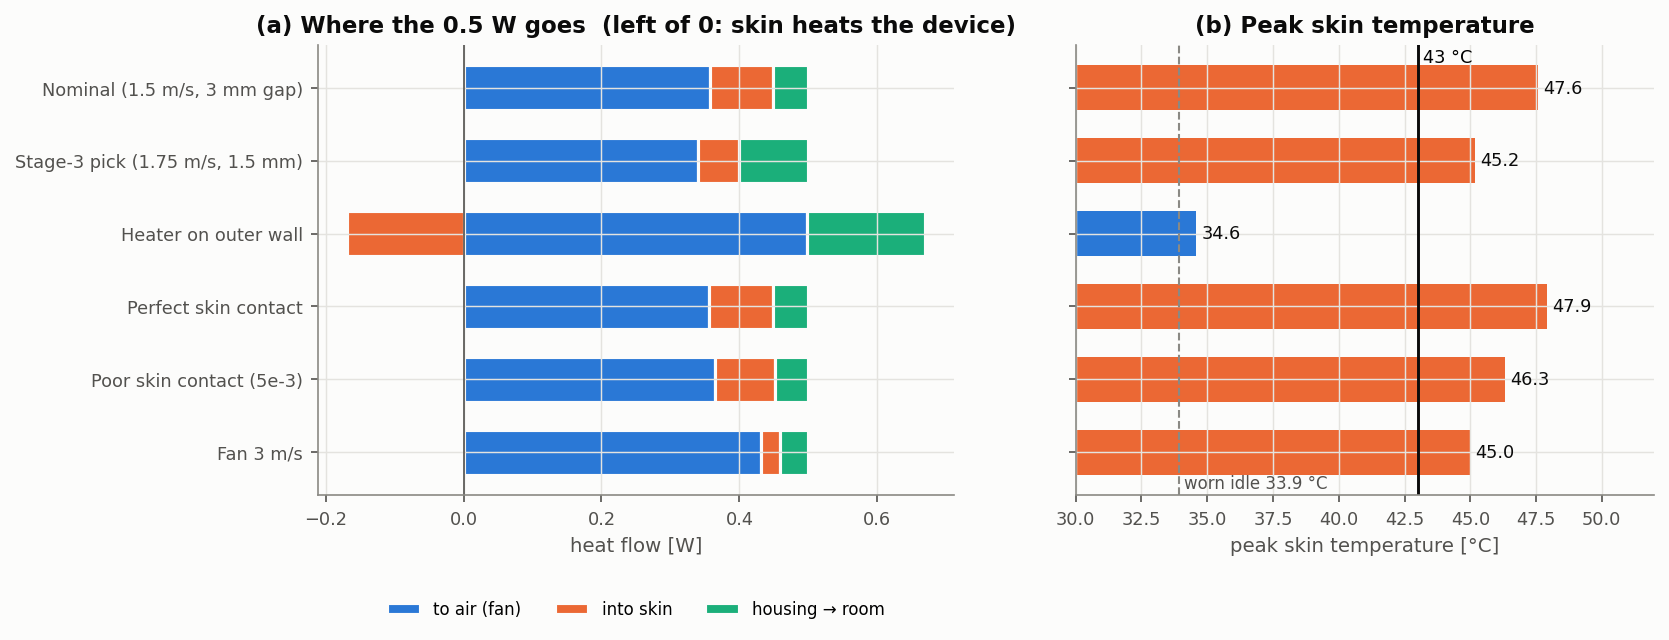
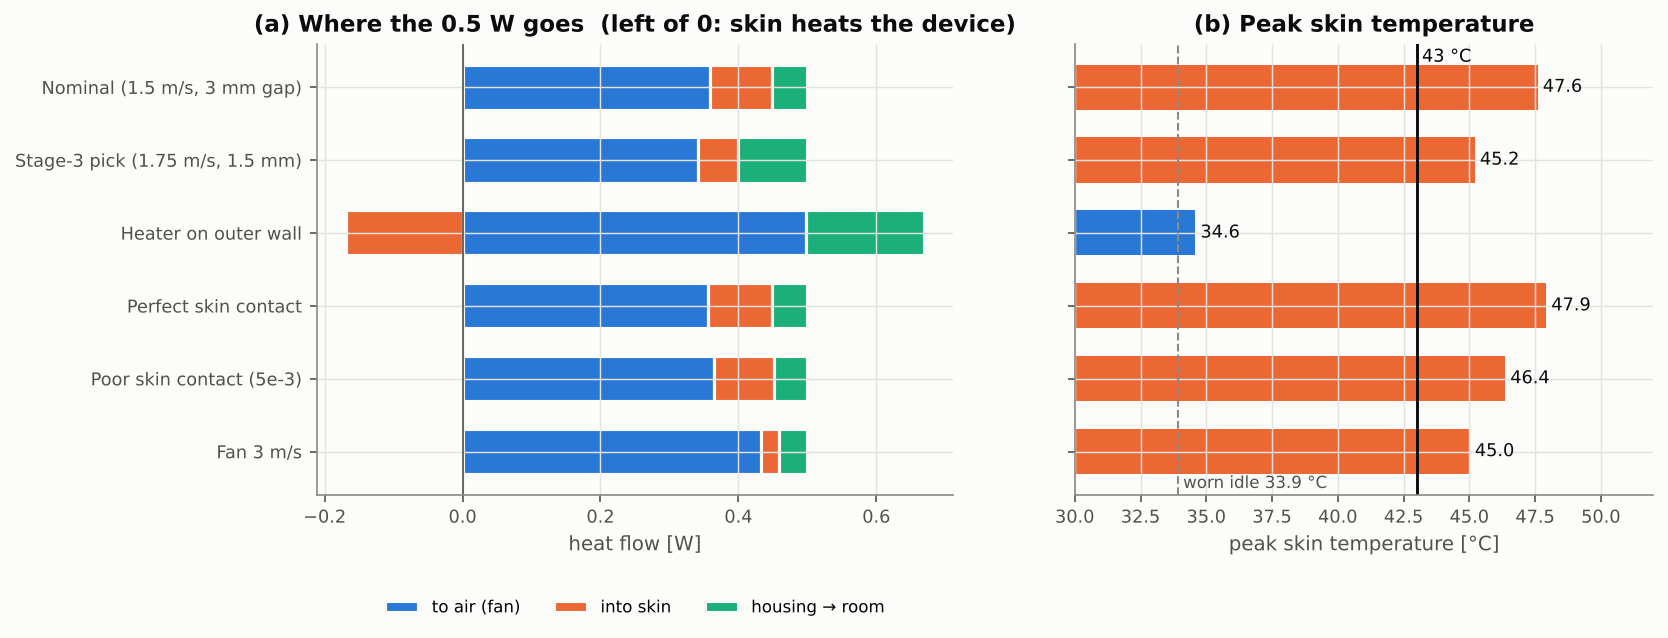
Mesh the housing-skin contact resistance instead of using BC thin layers
The coupled BC's thicknessLayers/kappaLayers option was reworked after
OpenFOAM v1912. On v2412 the 1D device column was off by 8.79 K
(R''=5e-3, the CI failure) and 4.92 K at the nominal R''=1e-3.

The contact resistance is now a 0.05 mm solid region carved from the
skin side of the housing, with k = d / (R'' + d/k_housing). The 1D
columns match the semi-analytic solution to 0.3 mK on both v1912 and
v2412.

Phase 2 and 4 re-run on v1912: Phase 2 values move by <= 0.15 K;
Phase 4 screening, optimised designs (0.59 / 0.94 / 1.15 W) and
binding limits are unchanged.

diff --git a/coolchan/device3d.py b/coolchan/device3d.py
@@ -10,7 +10,11 @@ Assembly (half-width, symmetry plane at z = 0; x streamwise, y outward from skin
        |                                                       core at 37 C (y = -depth)
 
 * Heater: aluminium block (battery/SoC + spreader) on the skin-side housing wall.
-* Housing <-> epidermis: thermal contact resistance R'' (thin layer in the coupled BC).
+* Housing <-> epidermis: thermal contact resistance R''. It is meshed as a thin solid
+  region ("contact", CONTACT_MM thick) carved from the skin side of the housing wall, with
+  a conductivity that gives exactly R'' plus the housing it replaces (see contact_kappa).
+  A meshed layer behaves the same in every OpenFOAM release; the coupled BC's
+  thicknessLayers/kappaLayers option does not (it was reworked after v1912).
 * Outer housing and exposed skin: natural convection h + grey-body radiation to ambient.
 * Tissue: 4 layers, Pennes source  w*rho_b*c_b*(T_a - T) + q_m  in perfused layers.
 
@@ -47,6 +51,13 @@ TISSUE = [
     ("epidermis", 0.4, 0.24, 1200.0, 3590.0, 0.0, 0.0),
 ]
 HOUSING = dict(k=0.20, rho=1050.0, cp=2100.0)        # polycarbonate-type plastic
+CONTACT_MM = 0.05     # thickness of the meshed housing-skin contact layer
+
+
+def contact_kappa(R_contact, t_mm=CONTACT_MM, k_host=HOUSING["k"]):
+    """Conductivity of the contact layer: its t_mm of housing plus R'' in series."""
+    d = t_mm * 1e-3
+    return d / (R_contact + d / k_host)
 
 
 @dataclass
@@ -132,6 +143,8 @@ class DeviceParams:
                 return tissue_names[j]
             if not (0 < xc < L and zc < self.Wc_mm / 2 + t):
                 return None
+            if yc < CONTACT_MM:
+                return "contact"            # skin-side face of the housing, carries R''
             if yc < t or yc > t + H or zc > self.Wc_mm / 2:
                 return "housing"
             kind = next(kd for lo, hi, kd, _ in segs if lo < yc < hi)
@@ -151,7 +164,7 @@ class DeviceParams:
                     return "inlet", "patch"
                 if d == "+x":
                     return "outlet", "patch"
-            if zn in ("housing", "heater"):     # heater: only the spreader ends at the vents
+            if zn in ("housing", "heater", "contact"):  # heater: only the spreader ends at the vents
                 return "housingOuter", "wall"
             if zn in tissue_names:
                 if d == "-y" and j == 0:
@@ -191,7 +204,7 @@ class DeviceParams:
 
     def _channel_bands(self):
         t, H = self.t_mm, self.H_mm
-        return [(t, 4)] + [(hi, c) for lo, hi, kd, c in self._channel_segments()] + [(2 * t + H, 4)]
+        return [(CONTACT_MM, 1), (t, 4)] + [(hi, c) for lo, hi, kd, c in self._channel_segments()] + [(2 * t + H, 4)]
 
     @property
     def spreader_mass_g(self) -> float:
@@ -205,7 +218,7 @@ class DeviceParams:
                 ((self.Lup_mm + self.Lb_mm) * 1e-3, hi * 1e-3, self.Wb_mm / 2 * 1e-3))
 
     def regions(self):
-        solids = ["heater", "housing"]
+        solids = ["heater", "housing", "contact"]
         solids += ["pad"] if self.pad_mm else []
         return ["air"], solids + [tl[0] for tl in TISSUE]
 
@@ -273,16 +286,12 @@ pennes
 """
 
 
-def coupled_T(kappa_method, R_contact=None):
-    layers = ""
-    if R_contact:
-        # thin layer of arbitrary thickness with kappa chosen to give R''
-        d = 1e-4
-        layers = f"\n        thicknessLayers ({d:g});\n        kappaLayers     ({d / R_contact:.6g});"
+def coupled_T(kappa_method):
+    """Perfect thermal coupling between two regions (contact resistance is meshed instead)."""
     return f"""{{
         type            compressible::turbulentTemperatureCoupledBaffleMixed;
         Tnbr            T;
-        kappaMethod     {kappa_method};{layers}
+        kappaMethod     {kappa_method};
         value           $internalField;
     }}"""
 
@@ -318,6 +327,9 @@ def build_device(case_dir: Path, p: DeviceParams) -> Path:
     # solids other than the heater (heater comes from templates/common)
     _w(c / "constant" / "housing" / "thermophysicalProperties", "dictionary",
        "thermophysicalProperties", solid_thermo(HOUSING["k"], HOUSING["rho"], HOUSING["cp"]))
+    _w(c / "constant" / "contact" / "thermophysicalProperties", "dictionary",
+       "thermophysicalProperties",
+       solid_thermo(contact_kappa(p.R_contact), HOUSING["rho"], HOUSING["cp"]))
     if p.pad_mm:
         _w(c / "constant" / "pad" / "thermophysicalProperties", "dictionary",
            "thermophysicalProperties", solid_thermo(p.k_pad, 100.0, 1300.0))
@@ -386,13 +398,12 @@ def write_fields(c: Path, p: DeviceParams, adjacency):
         ents = []
         nbs = sorted(next(iter(pr - {reg})) for pr in adjacency if reg in pr)
         for nb in nbs:
-            Rc = p.R_contact if {reg, nb} == {"housing", "epidermis"} else None
-            ents.append(f"    {reg}_to_{nb}\n    {coupled_T(km, Rc)}")
+            ents.append(f"    {reg}_to_{nb}\n    {coupled_T(km)}")
         ents.append("    symmetry        { type symmetryPlane; }")
         if reg == "air":
             ents += ["    inlet           { type fixedValue; value uniform %g; }" % p.T_amb,
                      "    outlet          { type inletOutlet; inletValue uniform %g; value $internalField; }" % p.T_amb]
-        if reg == "housing" or (reg == "heater" and p.spreader_mm):
+        if reg in ("housing", "contact") or (reg == "heater" and p.spreader_mm):
             ents.append(f"    housingOuter\n    {ambient_T(p, p.eps_housing)}")
         if reg in [tl[0] for tl in TISSUE]:
             ents += [f"    skinExposed\n    {ambient_T(p, p.eps_skin)}",
@@ -454,6 +465,16 @@ def _wall_flux(m, T, patch, k):
     return (q * A).sum(), Tf, A, Cf
 
 
+def _face_flux(m, T, patch, k):
+    """Per-face heat flux [W/m2] leaving the region through ``patch``."""
+    sl = m.patch_slice(patch)
+    Cf, Sf = m.face_geometry[0][sl], m.face_geometry[1][sl]
+    n = Sf / np.linalg.norm(Sf, axis=1)[:, None]
+    cells = m.owner[sl]
+    d = np.abs(np.einsum("ij,ij->i", Cf - m.C[cells], n))
+    return k * (T.internal[cells] - T.boundary[patch]) / d
+
+
 def analyse_device(case_dir, p: DeviceParams, time=None) -> dict:
     c = Case(case_dir)
     time = time or c.latest()
@@ -465,8 +486,13 @@ def analyse_device(case_dir, p: DeviceParams, time=None) -> dict:
     out["T_heater_max_C"] = float(max(Th.internal.max(), *[v.max() for v in Th.boundary.values() if len(v)])) - 273.15
     me, Te = c.mesh("epidermis"), c.field("T", "epidermis", time)
     mh, Tho = c.mesh("housing"), c.field("T", "housing", time)
-    Qskin_epi, Tskin, Askin, Cskin = _wall_flux(me, Te, "epidermis_to_housing", kt["epidermis"])
-    Qskin, Ttouch, _, _ = _wall_flux(mh, Tho, "housing_to_epidermis", HOUSING["k"])
+    mc, Tco = c.mesh("contact"), c.field("T", "contact", time)
+    Qskin_epi, Tskin, Askin, Cskin = _wall_flux(me, Te, "epidermis_to_contact", kt["epidermis"])
+    Qskin, Tcf, Acf, _ = _wall_flux(mc, Tco, "contact_to_epidermis", contact_kappa(p.R_contact))
+    # housing surface at the skin = skin-side face + the jump q R'' across the contact
+    qloc = np.zeros_like(Tcf) if p.R_contact == 0 else _face_flux(mc, Tco, "contact_to_epidermis",
+                                                                    contact_kappa(p.R_contact))
+    Ttouch = Tcf + qloc * p.R_contact
     out["T_skin_max_C"] = float(Tskin.max()) - 273.15
     out["T_skin_mean_C"] = float((Tskin * Askin).sum() / Askin.sum()) - 273.15
     out["T_touch_max_C"] = float(Ttouch.max()) - 273.15
@@ -475,7 +501,7 @@ def analyse_device(case_dir, p: DeviceParams, time=None) -> dict:
     Tout_h = Tho.boundary["housingOuter"]
     out["T_housing_outer_max_C"] = float(Tout_h.max()) - 273.15
     Qamb = 0.0
-    for reg in ("housing", "heater"):
+    for reg in ("housing", "heater", "contact"):
         mr, Tr = c.mesh(reg), c.field("T", reg, time)
         if "housingOuter" not in mr.patches or mr.patches["housingOuter"]["nFaces"] == 0:
             continue
@@ -533,9 +559,11 @@ def surface_temperatures(case_dir, time=None) -> dict:
     Te = c.field("T", "epidermis", time)
     Th = c.field("T", "housing", time)
     Tc = c.field("T", "heater", time)
-    skin = np.concatenate([Te.boundary["epidermis_to_housing"], Te.boundary["skinExposed"]])
+    Tk = c.field("T", "contact", time)
+    skin = np.concatenate([Te.boundary["epidermis_to_contact"], Te.boundary["skinExposed"]])
     comp = np.concatenate([Tc.internal] + [Tc.boundary[k] for k in sorted(Tc.boundary)])
-    return dict(skin=skin, touch=Th.boundary["housingOuter"], component=comp)
+    touch = np.concatenate([Th.boundary["housingOuter"], Tk.boundary.get("housingOuter", [])])
+    return dict(skin=skin, touch=touch, component=comp)
 
 
 def max_power(case_idle, case_loaded, Q_ref, limits) -> dict:

diff --git a/coolchan/bioheat.py b/coolchan/bioheat.py
@@ -23,8 +23,8 @@ from scipy.integrate import solve_ivp
 from scipy.optimize import brentq
 
 from .case import TEMPLATES, _copy_render, AIR
-from .device3d import (BLOOD, HOUSING, SIGMA, TISSUE, _w, coupled_T, pennes_source,
-                       solid_thermo)
+from .device3d import (BLOOD, CONTACT_MM, HOUSING, SIGMA, TISSUE, _w, contact_kappa, coupled_T,
+                       pennes_source, solid_thermo)
 from .foamio import Case
 from .lattice import Axis, Lattice
 
@@ -102,9 +102,10 @@ def build_column(case_dir: Path, p: ColumnParams) -> Path:
         yc.append(n(base[name]))
     names = list(tissue)
     if p.kind == "device":
-        ylines.append(p.t_mm)
-        yc.append(n(10))
-        names.append("housing")
+        # the contact resistance is a meshed layer carved from the housing, as in device3d
+        ylines += [CONTACT_MM, p.t_mm]
+        yc += [n(2), n(10)]
+        names += ["contact", "housing"]
     lat = Lattice(Axis([0, 1], [1]), Axis(ylines, yc), Axis([0, 1], [1]),
                   zone=lambda i, j, k: names[j],
                   classify=lambda i, j, k, d: (("core", "wall") if d == "-y" else
@@ -126,17 +127,19 @@ def build_column(case_dir: Path, p: ColumnParams) -> Path:
     if p.kind == "device":
         _w(c / "constant" / "housing" / "thermophysicalProperties", "dictionary",
            "thermophysicalProperties", solid_thermo(HOUSING["k"], HOUSING["rho"], HOUSING["cp"]))
+        _w(c / "constant" / "contact" / "thermophysicalProperties", "dictionary",
+           "thermophysicalProperties",
+           solid_thermo(contact_kappa(p.R_contact, CONTACT_MM, HOUSING["k"]), HOUSING["rho"],
+                        HOUSING["cp"]))
     for nm in names:
         _copy_render(solid_sys, c / "system" / nm, toks)
     top = names[-1]
     for i, nm in enumerate(names):
         ents = ["    sides           { type empty; }"]
         if i > 0:
-            Rc = p.R_contact if {nm, names[i - 1]} == {"housing", "epidermis"} else None
-            ents.append(f"    {nm}_to_{names[i - 1]}\n    {coupled_T('solidThermo', Rc)}")
+            ents.append(f"    {nm}_to_{names[i - 1]}\n    {coupled_T('solidThermo')}")
         if i + 1 < len(names):
-            Rc = p.R_contact if {nm, names[i + 1]} == {"housing", "epidermis"} else None
-            ents.append(f"    {nm}_to_{names[i + 1]}\n    {coupled_T('solidThermo', Rc)}")
+            ents.append(f"    {nm}_to_{names[i + 1]}\n    {coupled_T('solidThermo')}")
         if i == 0:
             ents.append(f"    core            {{ type fixedValue; value uniform {p.T_core:g}; }}")
         if nm == top:
@@ -181,7 +184,11 @@ chtMultiRegionSimpleFoam               > log.chtMultiRegionSimpleFoam 2>&1
 
 
 def column_profile(case_dir: Path, p: ColumnParams):
-    """Cell-centre (y, T) through all regions, sorted by y [m, K]."""
+    """Cell-centre (y, T) through the tissue and housing, sorted by y [m, K].
+
+    The contact layer is left out: it lumps R'' and a sliver of housing into one
+    conductivity, so its interior temperature is not a point on the reference profile.
+    """
     c = Case(case_dir)
     names = [t[0] for t in TISSUE] + (["housing"] if p.kind == "device" else [])
     ys, Ts = [], []

diff --git a/tests/test_phase2.py b/tests/test_phase2.py
@@ -97,3 +97,22 @@ def test_pad_only_under_skin_side_heater():
 def test_spreader_mass():
     p = device3d.DeviceParams(spreader_mm=0.3)
     assert math.isclose(p.spreader_mass_g, 2700 * 0.3e-3 * 60e-3 * 12e-3 * 1e3)
+
+
+def test_contact_layer_reproduces_R_plus_replaced_housing():
+    for R in (0.0, 1e-3, 5e-3):
+        k = device3d.contact_kappa(R)
+        d = device3d.CONTACT_MM * 1e-3
+        assert math.isclose(d / k, R + d / device3d.HOUSING["k"], rel_tol=1e-12)
+
+
+def test_device_lattice_has_contact_layer_under_whole_footprint():
+    p = device3d.DeviceParams()
+    lat = p.lattice()
+    assert math.isclose(lat.y.lines[lat.y.lines.index(0.0) + 1], device3d.CONTACT_MM)
+    j = lat.y.lines.index(0.0)                  # first band above the skin
+    zones = {lat.zone(i, j, k) for i in range(lat.x.n) for k in range(lat.z.n)}
+    assert zones == {"contact", None}           # contact everywhere the housing touches skin
+    pairs = {frozenset(pr) for pr in lat.adjacency()}
+    assert frozenset(("contact", "epidermis")) in pairs
+    assert frozenset(("housing", "epidermis")) not in pairs

diff --git a/scripts/phase2_device.py b/scripts/phase2_device.py
@@ -196,7 +196,7 @@ def step_report():
         T = c.field("T", "epidermis")
         cells = m.patch_cells("skinExposed")
         pts, vals = [], []
-        for patch in ("epidermis_to_housing", "skinExposed"):
+        for patch in ("epidermis_to_contact", "skinExposed"):
             Cf = m.patch_centres(patch)
             pts.append(Cf[:, [0, 2]] * 1e3)
             vals.append(T.boundary[patch] - 273.15)

diff --git a/docs/phase2.md b/docs/phase2.md
@@ -32,7 +32,7 @@ It then asks the same design question again in 3D.
   | Fat | 0.6 | 0.19 | 1000 | 2500 | 0.00125 | 370 |
   | Inner tissue | 15 | 0.50 | 1000 | 4000 | 0.00125 | 370 |
 
-* **Housing–skin contact resistance.** R'' = 10⁻³ m²K/W, modelled as a thin layer inside the coupled boundary condition. **This value is assumed.** We found no open source that gives a value for plastic on skin, so the cases below bracket it from 0 (perfect contact) to 5 × 10⁻³, and Phase 5 will treat it as an uncertain input.
+* **Housing–skin contact resistance.** R'' = 10⁻³ m²K/W, modelled as a meshed 0.05 mm solid layer carved from the skin side of the housing wall, with a conductivity that reproduces R'' plus the housing it replaces. An earlier version put R'' inside the coupled boundary condition (`thicknessLayers`/`kappaLayers`); OpenFOAM reworked that option after v1912, and on v2412 it produced errors of 4.9 K (nominal R'') and 8.8 K (R'' = 5 × 10⁻³) in the 1D column check. The meshed layer gives the same answer on both releases. **This value is assumed.** We found no open source that gives a value for plastic on skin, so the cases below bracket it from 0 (perfect contact) to 5 × 10⁻³, and Phase 5 will treat it as an uncertain input.
 * **Room side.** Room air at 25 °C with natural convection h = 5 W/m²K, matching the source above. Radiation is modelled as a grey body, via the `emissivity` option of `externalWallHeatFluxTemperature`.
 
 ## Verification
@@ -60,10 +60,10 @@ The error falls by 3–4× per mesh doubling, which is close to second order, an
 
 | Output | coarse | medium | fine | Observed p | Richardson extrap. | GCI<sub>medium</sub> |
 |---|---|---|---|---|---|---|
-| Skin max [°C] | 47.675 | 47.569 | 47.490 | 0.97 | 47.243 | 1.81 % |
-| Heater max [°C] | 53.047 | 52.880 | 52.752 | 0.90 | 52.313 | 2.54 % |
-| Housing touch max [°C] | 48.550 | 48.435 | 48.348 | 0.93 | 48.060 | 2.00 % |
-| Heat into skin [W] | 0.091 | 0.091 | 0.091 | 0.64 | 0.090 | 1.28 % |
+| Skin max [°C] | 47.698 | 47.593 | 47.514 | 0.96 | 47.264 | 1.82 % |
+| Heater max [°C] | 53.069 | 52.903 | 52.776 | 0.88 | 52.331 | 2.57 % |
+| Housing touch max [°C] | 48.575 | 48.460 | 48.373 | 0.92 | 48.081 | 2.02 % |
+| Heat into skin [W] | 0.091 | 0.091 | 0.091 | 0.54 | 0.090 | 1.64 % |
 | Δp [Pa] | 5.716 | 5.793 | 5.849 | 1.09 | 6.004 | 4.54 % |
 
 * **Temperatures converge at about first order.** The likely cause is the heater's sharp edges and the graded outer blocks. The GCI is therefore larger than in Stages 1–2, but still small: about **±0.4 K on the peak skin temperature** of the design mesh (1.8 % of the 22.6 K rise).
@@ -75,13 +75,13 @@ The error falls by 3–4× per mesh doubling, which is close to second order, an
 
 | Case | Skin max [°C] | Skin mean under device [°C] | Housing touch max [°C] | Heater max [°C] | Heat to air / skin / room [W] | Fan [mW] |
 |---|---|---|---|---|---|---|
-| Nominal (1.5 m/s, 3 mm gap) | **47.6** ⚠ | 38.4 | 48.4 | 52.9 | 0.358 / 0.091 / 0.051 | 0.31 |
+| Nominal (1.5 m/s, 3 mm gap) | **47.6** ⚠ | 38.4 | 48.5 | 52.9 | 0.358 / 0.091 / 0.050 | 0.31 |
 | Worn, idle (Q = 0) | **33.9** | 33.0 | 33.8 | 31.0 | 0.162 / -0.196 / 0.034 | 0.31 |
-| Stage-3 pick (1.75 m/s, 1.5 mm) | **45.2** ⚠ | 37.8 | 45.9 | 49.6 | 0.341 / 0.059 / 0.099 | 1.21 |
+| Stage-3 pick (1.75 m/s, 1.5 mm) | **45.2** ⚠ | 37.8 | 45.9 | 49.7 | 0.341 / 0.059 / 0.099 | 1.21 |
 | Heater on outer wall | **34.6** | 33.4 | 34.5 | 58.4 | 0.498 / -0.170 / 0.171 | 0.31 |
 | Perfect skin contact | **47.9** ⚠ | 38.4 | 47.9 | 52.5 | 0.356 / 0.092 / 0.051 | 0.31 |
-| Poor skin contact (5e-3) | **46.3** ⚠ | 38.2 | 50.2 | 54.2 | 0.365 / 0.087 / 0.048 | 0.31 |
-| Fan 3 m/s | **45.0** ⚠ | 37.2 | 45.7 | 49.2 | 0.432 / 0.027 / 0.040 | 1.62 |
+| Poor skin contact (5e-3) | **46.4** ⚠ | 38.2 | 50.2 | 54.2 | 0.365 / 0.087 / 0.048 | 0.31 |
+| Fan 3 m/s | **45.0** ⚠ | 37.2 | 45.7 | 49.3 | 0.432 / 0.027 / 0.040 | 1.62 |
 
 ![skin map](figures/phase2_skin_map.png)
 
@@ -95,7 +95,7 @@ The error falls by 3–4× per mesh doubling, which is close to second order, an
    * **The skin is warm.** It sits at about 34 °C, not at the 25 °C ambient that the 2D walls implicitly assumed.
 2. **With the heater on the skin side, the fan cannot fix it.** Doubling the fan speed to 3 m/s moves more heat into the air (0.43 W), yet the skin still peaks at 45.0 °C. The hot spot sits right under the heater, and it is set by conduction through the wall into the skin. Airflow over the heater's far side barely touches that path.
 3. **Where the heater sits matters more than any fan setting.** Mounting it on the outer wall drops the skin peak to **34.6 °C**, within 1 K of wearing the device idle. The cost moves elsewhere: the outer housing reaches **56.6 °C**. That is above the 48 °C IEC 62368-1 limit for contact lasting 1 minute to 8 hours, as summarised in [Electronics Cooling (2025)](https://www.electronics-cooling.com/2025/07/thermal-design-for-externally-worn-wearable-electronics/), so it becomes a finger-touch problem instead. This trade-off is what Phase 4 (architecture and optimisation) should explore, for example with a heat spreader or insulation between heater and skin.
-4. **Contact resistance moves the temperature drop more than it moves the skin peak.** From perfect contact to R'' = 5 × 10⁻³ m²K/W, the skin peak changes by only 1.6 K (47.9 → 46.3 °C). The housing surface rises by 2.3 K. The assumed value is therefore not the dominant uncertainty for skin temperature.
+4. **Contact resistance moves the temperature drop more than it moves the skin peak.** From perfect contact to R'' = 5 × 10⁻³ m²K/W, the skin peak changes by only 1.6 K (47.9 → 46.4 °C). The housing surface rises by 2.3 K. The assumed value is therefore not the dominant uncertainty for skin temperature.
 5. **A worn, idle device cools the skin.** With the fan running and no power, the skin loses 0.2 W into the device and sits at 33.9 °C. Under load, only about 18 % of the heat enters the skin, but it is concentrated under the heater.
 6. **The 2D chip criterion is not conservative.** For the same nominal design, the 3D heater runs 4.0 K hotter than the 2D Stage 2 model predicted (52.9 vs 48.9 °C). The skin, which is what the limit actually applies to, sits 4.6 K above 43 °C.
 

diff --git a/README.md b/README.md
@@ -289,7 +289,7 @@ This score comes from an idle run and a loaded run superposed face by face. A ru
 * **One DOE case (train_05: U = 2.8 m/s, gap = 1.67 mm) did not converge to a steady state.** Its residuals stall at about 3 × 10⁻², which suggests the separated flow behind the block wants to be unsteady there. Its T<sub>max</sub> is iteratively stable to 10⁻⁴ K and its energy balance closes to 0.45 %, so it is kept in the fit. A transient `chtMultiRegionFoam` check would settle it.
 * **The model is 2D.** It ignores spanwise leakage around the block and side-wall effects, and all heat goes to the air through adiabatic walls. This is conservative for T<sub>max</sub>, but real headsets also conduct heat into the shell, which is exactly where the skin-contact limit applies. A 3D model with a housing region and a skin-side contact resistance is the realistic extension.
 * **Fan power is ideal** (Δp × flow). A real fan curve and efficiency (typically 10–30 % at this scale) should be applied before comparing designs on power.
-* **Toolchain.** The committed results were produced with **OpenFOAM v1912** (openfoam.com, Ubuntu package). CI runs the coarse cases with **v2406** in the official `opencfd/openfoam-default` image. The dictionaries use syntax common to both releases.
+* **Toolchain.** The committed results were produced with **OpenFOAM v1912** (openfoam.com, Ubuntu package). CI runs the coarse cases with **v2406** in the official `opencfd/openfoam-default` image. The dictionaries use syntax common to both releases, and the housing–skin contact resistance is a meshed layer rather than a boundary-condition option, because that option's behaviour changed after v1912. The 1D bioheat columns agree with the semi-analytic solution to 0.3 mK on both v1912 and v2412.
 
 ## Continuous integration
 

diff --git a/results/phase2/cases_table.md b/results/phase2/cases_table.md
@@ -1,9 +1,9 @@
 | Case | Skin max [°C] | Skin mean under device [°C] | Housing touch max [°C] | Heater max [°C] | Heat to air / skin / ambient [W] | Fan [mW] |
 |---|---|---|---|---|---|---|
-| Nominal (1.5 m/s, 3 mm gap) | **47.6** ⚠ | 38.4 | 48.4 | 52.9 | 0.358 / 0.091 / 0.051 | 0.31 |
+| Nominal (1.5 m/s, 3 mm gap) | **47.6** ⚠ | 38.4 | 48.5 | 52.9 | 0.358 / 0.091 / 0.050 | 0.31 |
 | Worn, idle (Q = 0) | **33.9** | 33.0 | 33.8 | 31.0 | 0.162 / -0.196 / 0.034 | 0.31 |
-| Stage-3 pick (1.75 m/s, 1.5 mm) | **45.2** ⚠ | 37.8 | 45.9 | 49.6 | 0.341 / 0.059 / 0.099 | 1.21 |
+| Stage-3 pick (1.75 m/s, 1.5 mm) | **45.2** ⚠ | 37.8 | 45.9 | 49.7 | 0.341 / 0.059 / 0.099 | 1.21 |
 | Heater on outer wall | **34.6** | 33.4 | 34.5 | 58.4 | 0.498 / -0.170 / 0.171 | 0.31 |
 | Perfect skin contact | **47.9** ⚠ | 38.4 | 47.9 | 52.5 | 0.356 / 0.092 / 0.051 | 0.31 |
-| Poor skin contact (5e-3) | **46.3** ⚠ | 38.2 | 50.2 | 54.2 | 0.365 / 0.087 / 0.048 | 0.31 |
-| Fan 3 m/s | **45.0** ⚠ | 37.2 | 45.7 | 49.2 | 0.432 / 0.027 / 0.040 | 1.62 |
+| Poor skin contact (5e-3) | **46.4** ⚠ | 38.2 | 50.2 | 54.2 | 0.365 / 0.087 / 0.048 | 0.31 |
+| Fan 3 m/s | **45.0** ⚠ | 37.2 | 45.7 | 49.3 | 0.432 / 0.027 / 0.040 | 1.62 |

diff --git a/results/phase4/screening_table.md b/results/phase4/screening_table.md
@@ -1,8 +1,8 @@
 | Architecture | Q<sub>max</sub> [W] | Limited by | Q at skin 43 °C | Q at touch 48 °C | Q at component 60 °C | Fan [mW] |
 |---|---|---|---|---|---|---|
-| A0: Heater on skin-side wall (Phase 2 baseline) | **0.35** | skin | 0.35 | 1.49 | 0.66 | 0.31 |
-| A1: Skin-side + 0.5 mm insulation pad | **0.52** | skin | 0.52 | 2.47 | 0.56 | 0.46 |
+| A0: Heater on skin-side wall (Phase 2 baseline) | **0.35** | skin | 0.35 | 1.51 | 0.66 | 0.31 |
+| A1: Skin-side + 0.5 mm insulation pad | **0.52** | skin | 0.52 | 2.50 | 0.56 | 0.46 |
 | A2: Board-mounted mid-channel | **0.70** | component | 1.73 | 1.60 | 0.70 | 0.54 |
-| A3: Heater on outer wall | **0.36** | touch | 5.94 | 0.36 | 0.52 | 0.31 |
-| A4: Outer wall + 0.3 mm Al spreader | **0.79** | touch | 3.43 | 0.79 | 1.16 | 0.34 |
+| A3: Heater on outer wall | **0.36** | touch | 5.91 | 0.36 | 0.52 | 0.31 |
+| A4: Outer wall + 0.3 mm Al spreader | **0.79** | touch | 3.42 | 0.79 | 1.16 | 0.34 |
 | A5: A4 with the fan off | **0.41** | touch | 0.90 | 0.41 | 0.64 | 0.00 |

diff --git a/results/phase2/mesh_table.md b/results/phase2/mesh_table.md
@@ -1,7 +1,7 @@
 | Output | coarse | medium | fine | Observed p | Richardson extrap. | GCI<sub>medium</sub> |
 |---|---|---|---|---|---|---|
-| Skin max [°C] | 47.675 | 47.569 | 47.490 | 0.97 | 47.243 | 1.81 % |
-| Heater max [°C] | 53.047 | 52.880 | 52.752 | 0.90 | 52.313 | 2.54 % |
-| Housing touch max [°C] | 48.550 | 48.435 | 48.348 | 0.93 | 48.060 | 2.00 % |
-| Heat into skin [W] | 0.091 | 0.091 | 0.091 | 0.64 | 0.090 | 1.28 % |
+| Skin max [°C] | 47.698 | 47.593 | 47.514 | 0.96 | 47.264 | 1.82 % |
+| Heater max [°C] | 53.069 | 52.903 | 52.776 | 0.88 | 52.331 | 2.57 % |
+| Housing touch max [°C] | 48.575 | 48.460 | 48.373 | 0.92 | 48.081 | 2.02 % |
+| Heat into skin [W] | 0.091 | 0.091 | 0.091 | 0.54 | 0.090 | 1.64 % |
 | Δp [Pa] | 5.716 | 5.793 | 5.849 | 1.09 | 6.004 | 4.54 % |

diff --git a/results/phase2/column_table.md b/results/phase2/column_table.md
@@ -1,8 +1,8 @@
 | Column | Cells | T<sub>top</sub> OpenFOAM [°C] | T<sub>top</sub> semi-analytic [°C] | Max \|error\| [K] |
 |---|---|---|---|---|
-| bare | 89 | 34.6624 | 34.6625 | 9.2e-05 |
-| bare | 178 | 34.6625 | 34.6625 | 2.6e-05 |
-| bare | 356 | 34.6625 | 34.6625 | 1.0e-05 |
+| bare | 89 | 34.6624 | 34.6625 | 9.4e-05 |
+| bare | 178 | 34.6625 | 34.6625 | 2.8e-05 |
+| bare | 356 | 34.6625 | 34.6625 | 1.2e-05 |
 | device | 99 | 46.6727 | 46.6724 | 3.0e-04 |
-| device | 198 | 46.6724 | 46.6724 | 7.6e-05 |
-| device | 396 | 46.6724 | 46.6724 | 2.1e-05 |
+| device | 198 | 46.6724 | 46.6724 | 7.4e-05 |
+| device | 396 | 46.6724 | 46.6724 | 1.8e-05 |

diff --git a/results/phase4/verified_table.md b/results/phase4/verified_table.md
@@ -1,5 +1,5 @@
 | Design | Fan U [m/s] | Gap [mm] | Al spreader [mm] | Spreader mass [g] | Fan [mW] | Q<sub>max</sub> coarse → design mesh [W] | Limited by | At Q<sub>max</sub>: skin / touch / component [°C] |
 |---|---|---|---|---|---|---|---|---|
 | max_power | 3.00 | 2.40 | 0.74 | 1.43 | 3.26 | 1.146 → **1.151** | touch | 36.92 / 47.85 / 49.13 |
-| quiet | 0.36 | 2.83 | 0.73 | 1.43 | 0.02 | 0.583 → **0.585** | touch | 39.02 / 47.95 / 49.23 |
+| quiet | 0.36 | 2.83 | 0.73 | 1.43 | 0.02 | 0.583 → **0.585** | touch | 39.03 / 47.95 / 49.23 |
 | balanced | 1.91 | 2.39 | 0.51 | 0.99 | 0.95 | 0.932 → **0.935** | touch | 36.93 / 47.87 / 49.15 |
